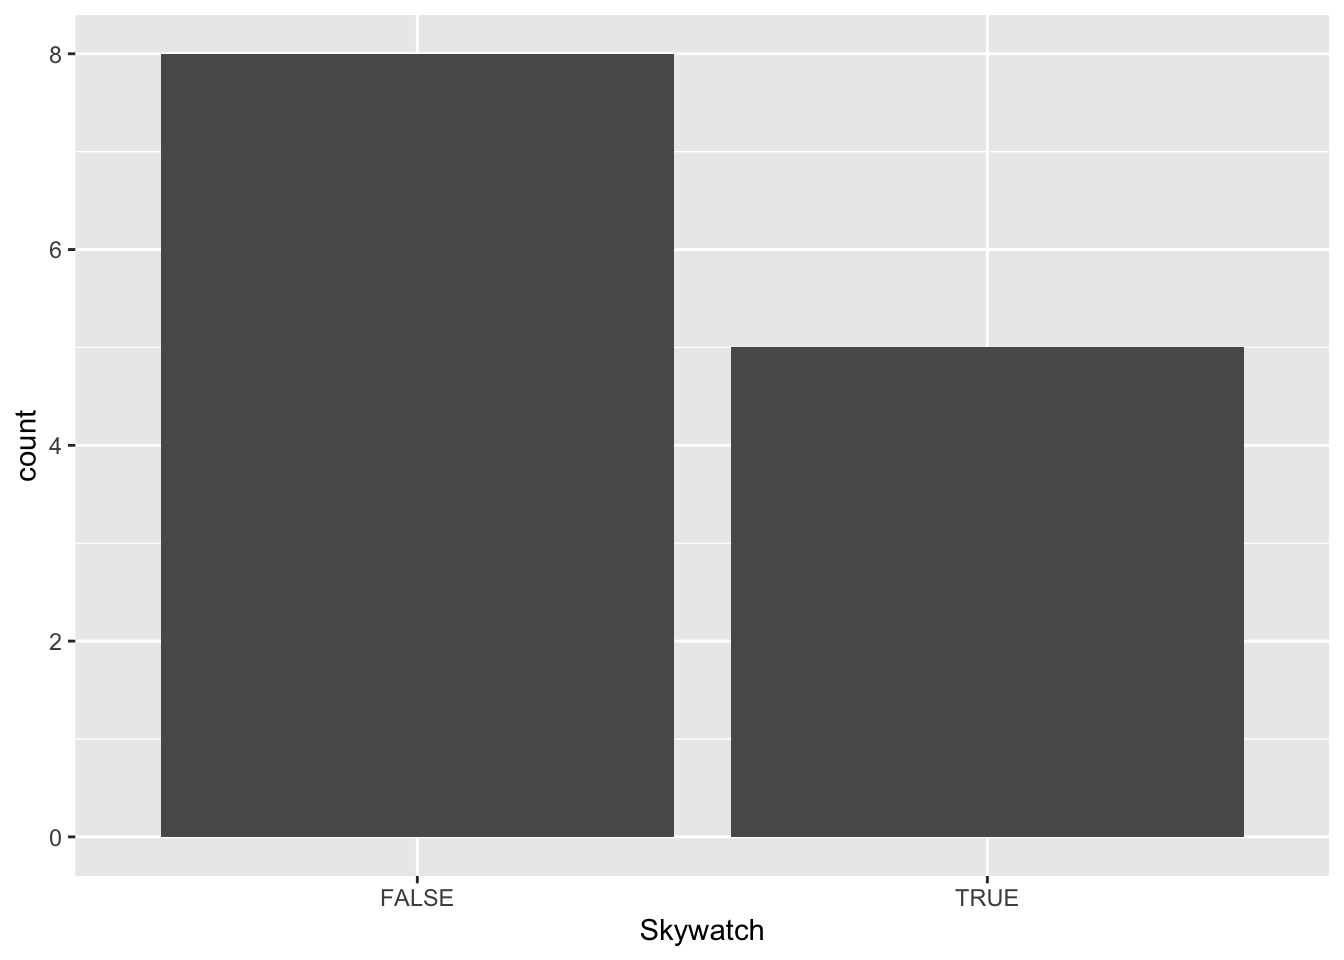
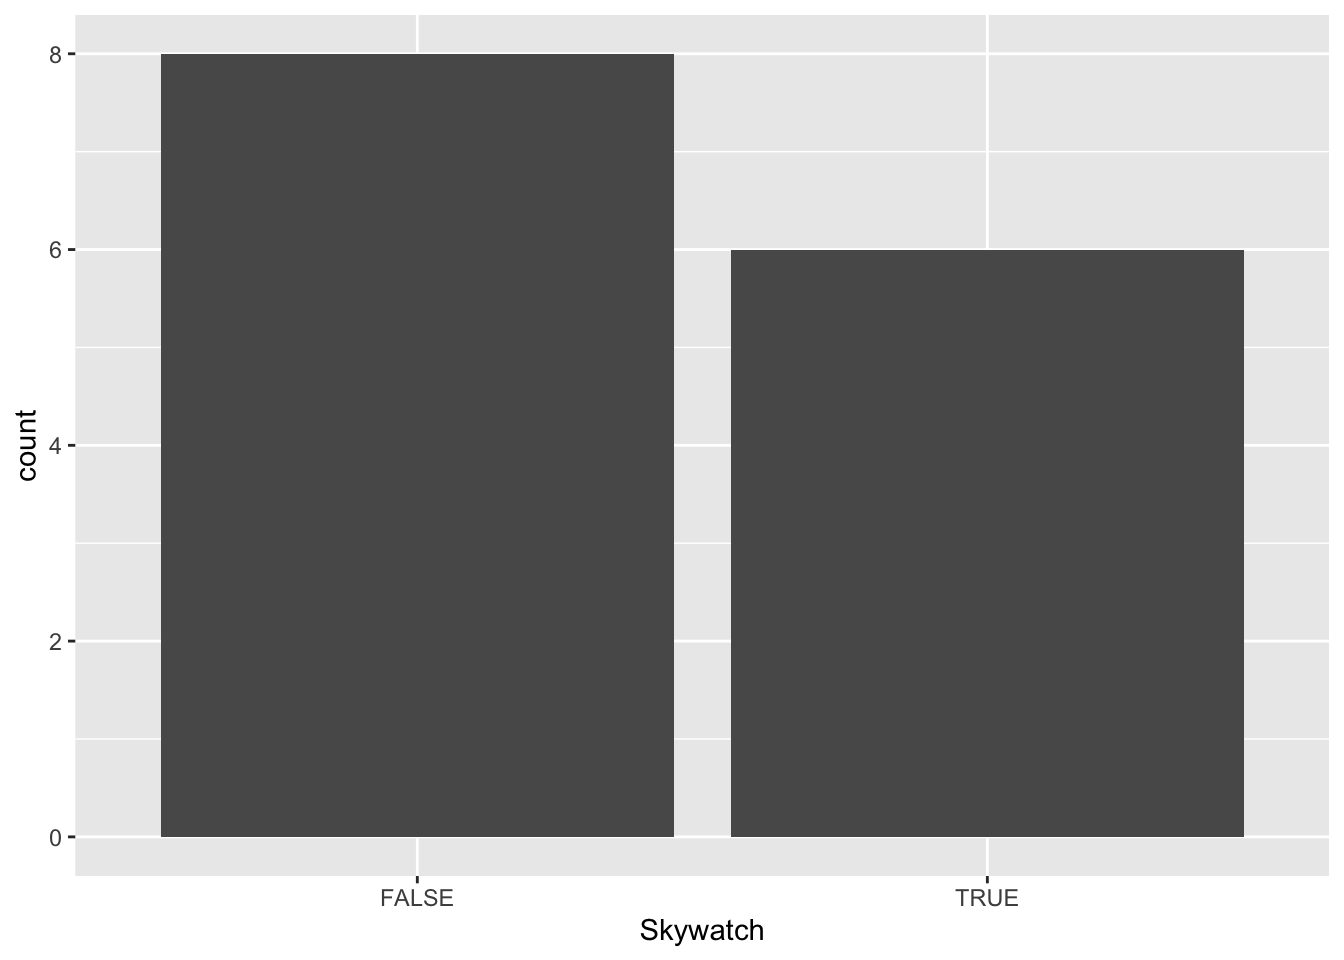
Update data and render report.

Changed region(s): [[0.5312, 0.25, 0.9375, 0.375]]

diff --git a/index.html b/index.html
@@ -161,8 +161,8 @@ Important
 <div class="cell-output cell-output-stdout">
 <pre><code>function (...) 
 capture_output(.f(...))
-&lt;bytecode: 0x1068d40d8&gt;
-&lt;environment: 0x1068d43b0&gt;</code></pre>
+&lt;bytecode: 0x1078094d8&gt;
+&lt;environment: 0x1078097b0&gt;</code></pre>
 </div>
 </div>
 </section>
@@ -322,7 +322,7 @@ capture_output(.f(...))
 </section>
 <section id="visualize" class="level2">
 <h2 class="anchored" data-anchor-id="visualize">Visualize</h2>
-<p>As of 2025-03-14 06:06:59.190229, we have had <em>n</em>=13 responses.</p>
+<p>As of 2025-03-17 14:55:03.939585, we have had <em>n</em>=14 responses.</p>
 <section id="activities" class="level3">
 <h3 class="anchored" data-anchor-id="activities">2024 Activities</h3>
 <blockquote class="blockquote">
@@ -623,6 +623,9 @@ Figure&nbsp;10: Attend Penn State on Tap in 2025
 </tr>
 <tr class="even">
 <td style="text-align: left;">CPO monthly membership meeting, CPO Sky watches</td>
+</tr>
+<tr class="odd">
+<td style="text-align: left;">Already involved extensively</td>
 </tr>
 </tbody>
 </table>
@@ -1065,6 +1068,9 @@ Figure&nbsp;24: Plan observing trip
 <tr class="even">
 <td style="text-align: left;">Runs BFSP. Manages our resources. These days we seem to be doing well at bringing in new people and getting participation at meetings.</td>
 </tr>
+<tr class="odd">
+<td style="text-align: left;">BFSP</td>
+</tr>
 </tbody>
 </table>
 
@@ -1126,6 +1132,9 @@ Figure&nbsp;24: Plan observing trip
 <tr class="even">
 <td style="text-align: left;">Help each other learn more about observing. Observing gatherings for members.</td>
 </tr>
+<tr class="odd">
+<td style="text-align: left;">new member retention</td>
+</tr>
 </tbody>
 </table>
 
@@ -1165,6 +1174,9 @@ Figure&nbsp;24: Plan observing trip
 </tr>
 <tr class="odd">
 <td style="text-align: left;">Set up some sort of community message board or forum where members can share what they are doing as far as the hobby. Perhaps a comment on a celestial event they witnessed, or a problem they are having or perhaps some item they may have for sale. Keep in mind not everyone is on FB. Maybe this could be a part of our web page...IDK.</td>
+</tr>
+<tr class="even">
+<td style="text-align: left;">CPO lunches</td>
 </tr>
 </tbody>
 </table>
